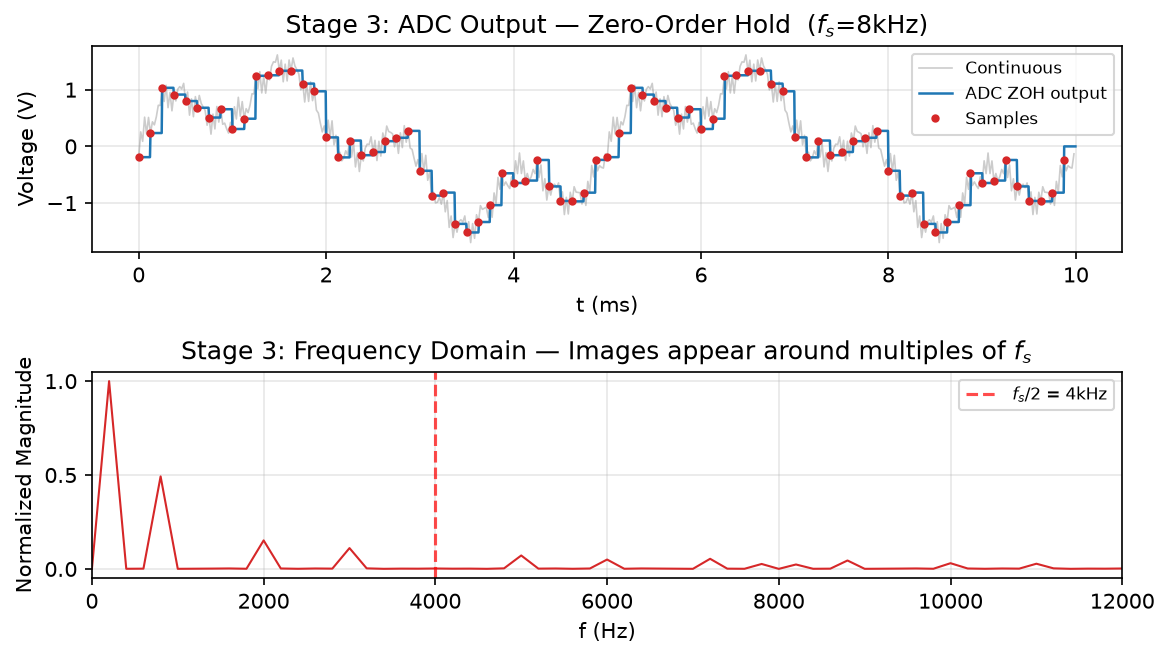
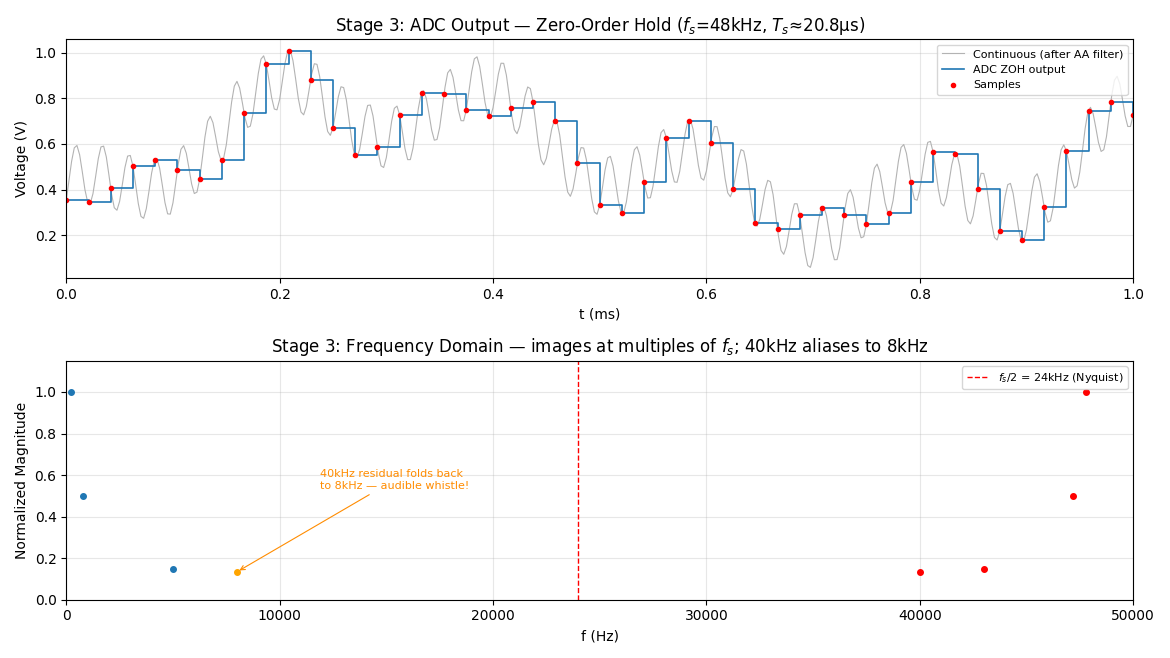
docs(signals-systems): 统一EQ信号链图参数并补充真实电路实物照
- 五张 Stage 图统一为 fs=48kHz、40kHz 干扰源，修复采样率与
  抗混叠滤波器参数矛盾；40kHz 残余混叠到 8kHz 的可闻啸叫
  成为贯穿全链的教学案例
- Stage 1 加入麦克风拾取的超声干扰，频谱轴扩到 50kHz，
  消除 Stage 1→2 的信号断链
- 实测波形表改为三列（阶段/图/解读），解读移入第三列
- 系统框架小节替换 AI 生成为 Pioneer XD-J110 均衡器主板
  真实照片（Wikimedia Commons, CC BY-SA 4.0，已署名）
- §1.2 两视角图展开为展开-收敛 DAG，列出时域六种波形
  操作与频域四类频率改变

diff --git a/01-Foundations/05-信号与系统/001-信号、系统与LTI基础.md b/01-Foundations/05-信号与系统/001-信号、系统与LTI基础.md
@@ -31,7 +31,7 @@ date-updated: 2026-11-04
 | 电力电子 | PWM 波形、电流采样 | 变换器、滤波器、负载  | 如何高效变换电能并稳定输出 |
 | 电机控制 | 三相电流、编码器脉冲  | FOC 算法、逆变器  | 如何实现精确转矩控制    |
 
-> **工程直觉**：信号与系统不是一门"纯数学"课，而是把工程问题翻译成数学、解决后再翻译回工程的桥梁。RC 电路的充放电、电机的速度响应、通信的带宽限制——本质上都是同一个故事：信号经过系统后发生了什么变化。
+> **工程直觉**：**信号与系统不是一门"纯数学"课，而是把工程问题翻译成数学、解决后再翻译回工程的桥梁。**RC 电路的充放电、电机的速度响应、通信的带宽限制——本质上都是同一个故事：信号经过系统后发生了什么变化。
 
 ### 1.2 核心问题：信号经过系统后发生了什么？
 
@@ -39,27 +39,50 @@ date-updated: 2026-11-04
 graph LR
     A["输入信号<br/>x(t)或x[n]"] --> B["系统<br/>变换规则"] --> C["输出信号<br/>y(t)或y[n]"]
 
-    subgraph 时域视角
-        D["x(t)波形<br/>随时间变化"] --> E["系统对波形的<br/>直接操作"] --> F["y(t)波形<br/>随时间变化"]
+    subgraph 时域视角["时域视角：波形怎样变化"]
+        D["x(t)波形<br/>随时间变化"] --> E["系统对波形的<br/>直接操作"]
+        E --> e1["时移：延迟 / 超前"]
+        E --> e2["翻折：x(−t)<br/>时间反转"]
+        E --> e3["尺度：压缩 / 扩展"]
+        E --> e4["加权 + 叠加<br/>（LTI 系统的全部操作）"]
+        E --> e5["微分 / 积分<br/>锐化 / 平滑"]
+        E --> e6["非线性：限幅 · 平方<br/>产生新的波形特征"]
+        e1 --> F["y(t)波形<br/>随时间变化"]
+        e2 --> F
+        e3 --> F
+        e4 --> F
+        e5 --> F
+        e6 --> F
     end
 
-    subgraph 频域视角
-        G["X(jω)频谱<br/>含哪些频率"] --> H["系统对不同频率<br/>的增益/相移"] --> I["Y(jω)频谱<br/>频率成分改变"]
+    subgraph 频域视角["频域视角：成分怎样改变"]
+        G["X(jω)频谱<br/>含哪些频率"] --> H["系统对不同频率<br/>的增益/相移"]
+        H --> h1["幅值：增益 / 衰减<br/>通带 · 阻带 · 滚降"]
+        H --> h2["相位：滞后 / 超前<br/>群延迟"]
+        H --> h3["成分：线性系统不产生<br/>新频率；非线性产生谐波"]
+        H --> h4["位置：频谱搬移<br/>调制 · 采样镜像"]
+        h1 --> I["Y(jω)频谱<br/>频率成分改变"]
+        h2 --> I
+        h3 --> I
+        h4 --> I
     end
 
     A -.-> D
     B -.-> E
     C -.-> F
-    A -.-> G
-    B -.-> H
     C -.-> I
+    B -.-> H
+    A -.-> G
 ```
 
 **信号与系统给出两个互补的分析视角：**
-- **时域**：观察波形随时间如何变化（卷积、微分方程）
-- **频域**：观察信号包含哪些频率成分，系统如何改变这些成分（傅里叶、拉普拉斯、Z 变换）
 
-### 1.3 工程预览（首读可略）：时域 vs 频域——以数字音频均衡器为例
+- **时域**：系统直接对波形做操作——时移、翻折、尺度、加权叠加、微分积分（以及它们的组合运算：卷积、微分方程）
+- **频域**：系统按频率逐个改变成分——幅值增益/衰减、相位滞后/超前、成分与位置的改变（分析工具：傅里叶、拉普拉斯、Z 变换）
+
+> **两视角的对照关系**：时域里"微分/积分、滑动平均"这类波形操作，在频域里恰好对应"乘 $j\omega$、乘 $H(j\omega)$"这类逐频率的幅相改变——**时域的"操作波形"与频域的"加权频率"是同一枚硬币的两面**。线性系统只含加权叠加与时移，所以它在频域里只是每个频率乘一个复数 $H(j\omega)$，不产生新频率；一旦出现限幅、平方这类非线性操作，频谱上立刻长出原信号没有的谐波。
+
+### 1.3 工程预览：时域 vs 频域
 
 时域和频域不是"二选一"的关系，而是**同一信号的两副眼镜**。以下用一个完整的数字音频均衡器（EQ）信号链，展示两副眼镜分别看到了什么：
 
@@ -88,38 +111,54 @@ graph LR
     style H fill:#e8f4e8
 ```
 
+**真实电路对应**：上图信号链的模拟前端与后端，在真实设备里长什么样？下面是一块取自 Pioneer XD-J110 音响主板的实物照片，板上的均衡器部分就是数字 EQ 在模拟域的"祖先"——
+
+![[Assets/signals_systems/pioneer_eq_board.jpg]]
+
+对照实物从上往下找：
+
+- **上方一排红色滑杆电位器**：EQ 的频段调节手柄，对应数字 EQ 里"各频段增益"那几个数字；
+- **两颗 JRC4558 双运放**（板子中左部）：音频系统里最常见的运放，承担前置放大与缓冲（对应"系统"对信号施加增益的那部分变换规则）；
+- **LA3607 芯片**（板子中左部、丝印旁）：三洋经典的 **5 段图示均衡器专用 IC**，内部集成了五组有源选频网络，把"分频段、调增益、再叠加"整套操作做进了一颗芯片里；
+
+![[Assets/signals_systems/pioneer_eq_la3607.jpg]]
+
+早期的图示均衡器把这套功能分散在大量分立运放 + RC 网络上，LA3607 这类专用 IC 出现后，五个频段的滤波、增益调节和求和全部集成到片内，外部只留电位器和少量外围电容。到了数字 EQ 时代，"系统"从硅片换成了 DSP 里的乘法器——**变换规则的载体一直在变，"系统 = 对信号施加的变换规则"这个定义始终没变**。
+
+> 实物照片来自 Wikimedia Commons，作者 [Raimond Spekking](https://commons.wikimedia.org/wiki/File:Pioneer_XD-J110_-_board_1-8625.jpg)，许可 [CC BY-SA 4.0](https://creativecommons.org/licenses/by-sa/4.0/)。
+
 > **工程背景**：歌手的声音经麦克风拾取后，需要通过 EQ 调整音色——例如削减 200Hz 的"鼻音浑浊感"，提升 5kHz 的"空气感"。整个信号链串联了模拟电路、ADC、DSP、DAC 和功率放大，是一个典型的跨域信号处理系统。
 
 #### 两副眼镜看同一个信号
 
-| 环节 | 时域视角（示波器看到的） | 频域视角（频谱分析仪看到的） |
-|------|-----------------------|--------------------------|
-| **麦克风输出** | 复杂的电压波形，声带振动和口腔共鸣叠加成一团"乱线" | 清晰的频谱：基频（~200Hz）+ 谐波 + 齿音（~6kHz），成分一目了然 |
-| **抗混叠滤波** | 波形边沿被 RC 充放电"磨圆"，陡峭跳变消失 | 20kHz 以上的高频分量被衰减 → 为采样做准备 |
-| **ADC 采样** | 连续信号取值形成离散序列；保持电路的阶梯电压另行描述 | 频谱中出现镜像（images），位于 $f_s \pm f_{in}$ 处 |
-| **EQ 调整** | 波形看起来只是"变了一点"，人眼几乎无法判断改了哪个频段 | 各频段增益清晰可见：200Hz -6dB，5kHz +3dB |
-| **DAC 输出** | 阶梯波形，每 $T_s = 1/f_s \approx 20.8\mu s$ 更新一次 | 残留高频镜像 → 需要重建滤波器消除 |
+| 环节         | 时域视角（示波器看到的）                                | 频域视角（频谱分析仪看到的）                          |
+| ---------- | ------------------------------------------- | --------------------------------------- |
+| **麦克风输出**  | 复杂的电压波形，声带振动、口腔共鸣与环境超声干扰叠加成一团"乱线"       | 清晰的频谱：基频（~200Hz）+ 谐波 + 齿音（~5kHz）+ 40kHz 干扰谱线，成分一目了然 |
+| **抗混叠滤波**  | 波形边沿被 RC 充放电"磨圆"，陡峭跳变消失                     | 20kHz 以上的高频分量被衰减 → 为采样做准备               |
+| **ADC 采样** | 连续信号取值形成离散序列；保持电路的阶梯电压另行描述                  | 频谱中出现镜像（images），位于 $f_s \pm f_{in}$ 处   |
+| **EQ 调整**  | 波形看起来只是"变了一点"，人眼几乎无法判断改了哪个频段                | 各频段增益清晰可见：200Hz -6dB，5kHz +3dB          |
+| **DAC 输出** | 阶梯波形，每 $T_s = 1/f_s \approx 20.8\mu s$ 更新一次 | 残留高频镜像 → 需要重建滤波器消除                      |
 
-**各阶段实测波形与解读（每张图上方为时域波形，下方为频谱）：**
+**各阶段实测波形与解读**：
 
-| 阶段                      | 波形图与详细解读                                                                                                                                                                                                                                                                       |
-| ----------------------- | ------------------------------------------------------------------------------------------------------------------------------------------------------------------------------------------------------------------------------------------------------------------------------ |
-| **Stage 1** — 麦克风输出     | ![[Assets/signals_systems/eq_stage1_mic.png]]<br><br>**时域**：200Hz 基频 + 800Hz 谐波 + 5kHz"齿音"三条正弦叠加，波形杂乱。<br>**频域**：三条谱线与频率成分一一对应，幅度成正比（200Hz 最高、5kHz 最低）——"时域一团乱麻，频域一目了然"的第一次直观体验。                                                                                               |
-| **Stage 2** — 抗混叠滤波     | ![[Assets/signals_systems/eq_stage2_antialias.png]]<br><br>**时域**：灰色为滤波前（叠加了 22kHz 高频干扰，呈细密毛刺），蓝色为滤波后毛刺被磨平。<br>**频域**：22kHz 谱线衰减约 -3.4dB，而 200Hz/800Hz/5kHz 人声成分几乎不受影响（都在 $f_c=20\text{kHz}$ 通带内）——**抗混叠滤波器只"动"需要滤除的高频，不影响有用信号**。                                              |
-| **Stage 3** — ADC 采样    | ![[Assets/signals_systems/eq_stage3_adc.png]]<br><br>**时域**：灰色连续波形被离散为红色采样点，蓝色阶梯为零阶保持（ZOH）输出——采样保持器把电压"冻结"在上一次采样值。<br>**频域**：出现以 $f_s=8\text{kHz}$ 为间隔的镜像，5kHz 信号在 $f_s-5\text{kHz}=3\text{kHz}$ 处混叠（$f_s/2=4\text{kHz}$ 红线为奈奎斯特频率）——**这正是抗混叠滤波器存在的根本原因**（演示用低采样率，实际系统 48kHz）。 |
-| **Stage 4** — EQ 均衡处理   | ![[Assets/signals_systems/eq_stage4_eq.png]]<br><br>**时域**：灰色（EQ 前）与蓝色（EQ 后）几乎重合，人眼无法判断改了哪个频段。<br>**频域**：蓝色阴影区（50–300Hz）衰减 6dB（-6dB ≈ ×0.5），绿色阴影区（4–6kHz）提升 3dB（+3dB ≈ ×1.41）——**EQ 在时域是卷积运算，在频域只是一次逐频率乘法**。                                                                   |
-| **Stage 5** — DAC 输出+重建 | ![[Assets/signals_systems/eq_stage5_dac.png]]<br><br>**时域**：蓝色曲线是重建滤波器输出，把灰色 ZOH 阶梯平滑回连续波形，消除台阶"棱角"。<br>**频域**：红色区域（$f_s/2\sim f_s$）为残留高频镜像，必须由重建滤波器（模拟低通）滤除，否则进入功放和音箱产生超声噪声与失真——**时域"平滑"与频域"滤镜像"描述的是同一件事**。                                                                   |
+| 阶段                      | 实测波形                                                | 解读                                                                                                                                                                                                                                                                                                                                                            |
+| ----------------------- | --------------------------------------------------- | ------------------------------------------------------------------------------------------------------------------------------------------------------------------------------------------------------------------------------------------------------------------------------------------------------------------------------------------------------------- |
+| **Stage 1** — 麦克风输出     | ![[Assets/signals_systems/eq_stage1_mic.png]]       | **时域**：200Hz 基频 + 800Hz 谐波 + 5kHz"齿音"三条正弦之上，还叠加了一路环境中拾取的 40kHz 超声干扰（如超声波测距传感器、开关电源的高频振铃被模拟前端拾取），波形在语音轮廓上布满细密毛刺。<br><br>**频域**：四条谱线与频率成分一一对应——人声三条（200Hz 最高、5kHz 最低）+ 最右侧的 40kHz 干扰谱线。注意横轴已扩展到`50kHz`：这路超声干扰频率远超人耳听觉上限（20kHz），**听不见但真实存在于电压信号里，它就是 Stage 2 抗混叠滤波器要处理的对象**。                                                                                     |
+| **Stage 2** — 抗混叠滤波     | ![[Assets/signals_systems/eq_stage2_antialias.png]] | **时域**：灰色为滤波前（即 Stage 1 的输出：人声波形叠加 40kHz 干扰，呈细密毛刺），蓝色为滤波后毛刺明显减少——但没有完全消失。<br><br>**频域**：一阶 RC 低通（$f_c=20\text{kHz}$）把 40kHz 干扰衰减约 -7dB（幅度 ×0.45），而 200Hz/800Hz/5kHz 人声成分几乎不受影响。**但要诚实指出：残余干扰仍剩约 1/5 幅度，一阶滤波器太"软"，并没有根除它**——记住这一点，Stage 3 会为此付出代价（实际系统会用更高阶滤波器或过采样，把残余压到 ADC 分辨率以下）。                                                                           |
+| **Stage 3** — ADC 采样    | ![[Assets/signals_systems/eq_stage3_adc.png]]       | **时域**：灰色连续波形（Stage 2 输出）被离散为红色采样点（$f_s=48\text{kHz}$，$T_s\approx20.8\mu s$；图为 0–1ms 局部放大，ZOH 阶梯清晰可见）。<br><br>**频域**：基带成分旁出现了以 $f_s=48\text{kHz}$ 为间隔的镜像（43k / 47.2k / 47.8kHz 等）；最要命的是 Stage 2 没滤干净的 40kHz 残余——它位于奈奎斯特频率（$f_s/2=24\text{kHz}$，红色虚线）之外，采样后**折回（混叠）到 $f_s-40\text{kHz}=8\text{kHz}$，变成一根可闻的尖锐啸叫谱线**——**这正是抗混叠滤波器存在的根本原因，也暴露了一阶 RC 衰减不足的真实后果**。 |
+| **Stage 4** — EQ 均衡处理   | ![[Assets/signals_systems/eq_stage4_eq.png]]        | **时域**：灰色（EQ 前）与蓝色（EQ 后）几乎重合，人眼无法判断改了哪个频段。<br><br>**频域**：蓝色阴影区（50–300Hz）衰减 6dB（-6dB ≈ ×0.5），绿色阴影区（4–6kHz）提升 3dB（+3dB ≈ ×1.41）——**EQ 在时域是卷积运算，在频域只是一次逐频率乘法**。注意图中还有一根 8kHz 谱线——那是 Stage 3 混叠进来的"案底"，提醒我们：正确做法是把功夫下在 Stage 2 的滤波器上，而不是指望 EQ 兜底。                                                                                                                 |
+| **Stage 5** — DAC 输出+重建 | ![[Assets/signals_systems/eq_stage5_dac.png]]       | **时域**：蓝色曲线是重建滤波器输出，把灰色 ZOH 阶梯（每 $T_s\approx20.8\mu s$ 更新一次）平滑回连续波形，消除台阶"棱角"。<br><br>**频域**：红色区域（$f_s/2\sim f_s$，即 24–48kHz）为残留高频镜像，必须由重建滤波器（模拟低通）滤除，否则进入功放和音箱产生超声噪声与失真——**时域"平滑"与频域"滤镜像"描述的是同一件事**。                                                                                                                                                          |
 
 > **关键洞见**：EQ 的"调整各频段增益"这一操作，在**时域**中体现为复杂的卷积运算（输入信号与 EQ 冲激响应做卷积），但在**频域**中只是一次简单的乘法（每个频率分量乘一个增益值）。**这就是傅里叶变换的核心价值——把卷积变成乘法。**
 
 #### 为什么工程师必须有两副眼镜
 
-|           | 时域眼镜                 | 频域眼镜                 |
-| --------- | -------------------- | -------------------- |
-| **适合什么**  | 调试电路板、看示波器、检查过冲和振铃   | 设计滤波器、分析噪声频谱、评估 EMC  |
-| **擅长的判断** | "这个信号有没有毛刺？响应快不快？"   | "哪个频率分量太强？滤波器够不够陡？"  |
-| **典型工具**  | 示波器、逻辑分析仪            | 频谱分析仪、Bode 图、网络分析仪   |
-| **工程场景**  | 排查 I²C 时序违例、PWM 死区时间 | 设计 ADC 抗混叠滤波器、电源环路补偿 |
+|           | 时域眼镜                     | 频域眼镜                   |
+| --------- | ------------------------ | ---------------------- |
+| **适合什么**  | 调试电路板、看示波器、检查过冲和振铃       | 设计滤波器、分析噪声频谱、评估 `EMC`  |
+| **擅长的判断** | "这个信号有没有毛刺？响应快不快？"       | "哪个频率分量太强？滤波器够不够陡？"    |
+| **典型工具**  | 示波器、逻辑分析仪                | 频谱分析仪、`Bode` 图、网络分析仪   |
+| **工程场景**  | 排查 `I²C` 时序违例、`PWM` 死区时间 | 设计 `ADC` 抗混叠滤波器、电源环路补偿 |
 
 > **一句话总结**：**时域是"现场排查的第一语言"，频域是"系统设计的核心工具"。** 优秀的工程师在两个视角之间自由切换——用时域定位问题，用频域设计解决方案。
 
@@ -137,7 +176,11 @@ graph LR
 
 ![[Assets/signals_systems/27_time_continuity.png|1500]]
 
-> **如何读这张图**：三个子图展示的是**同一个 50Hz 正弦信号**——上图为连续时间信号 $x(t)$（每个时刻都有值）；中图为以 400Hz 采样后的离散时间信号 $x[n]$（蓝色细线仅为参照，红色圆点才是真实数据）；下图为再经 4-bit 量化的数字信号（绿色阶梯，幅值只能落在 16 个量化电平上）。**连续 → 离散 → 数字，正是 ADC 完成的两次"离散化"：先离散时间，再离散幅值。**
+> **如何读这张图**：三个子图展示的是**同一个 50Hz 正弦信号**
+> - 上图为连续时间信号 $x(t)$（每个时刻都有值）；
+> - 中图为以 400Hz 采样后的离散时间信号 $x[n]$（蓝色细线仅为参照，红色圆点才是真实数据）；
+> - 下图为再经 4-bit 量化的数字信号（绿色阶梯，幅值只能落在 16 个量化电平上）。
+> **连续 → 离散 → 数字，正是 ADC 完成的两次"离散化"：先离散时间，再离散幅值。**
 
 > **工程直觉**：连续时间信号是"物理世界的原生语言"，离散时间信号是"采样后的中间态"，数字信号是"计算机能处理的语言"。在嵌入式系统中，ADC 先把连续信号变成离散时间信号，再经量化变成数字信号。理解这个三阶段的区别，对后续 [[010-采样、混叠与重建]] 至关重要。
 
